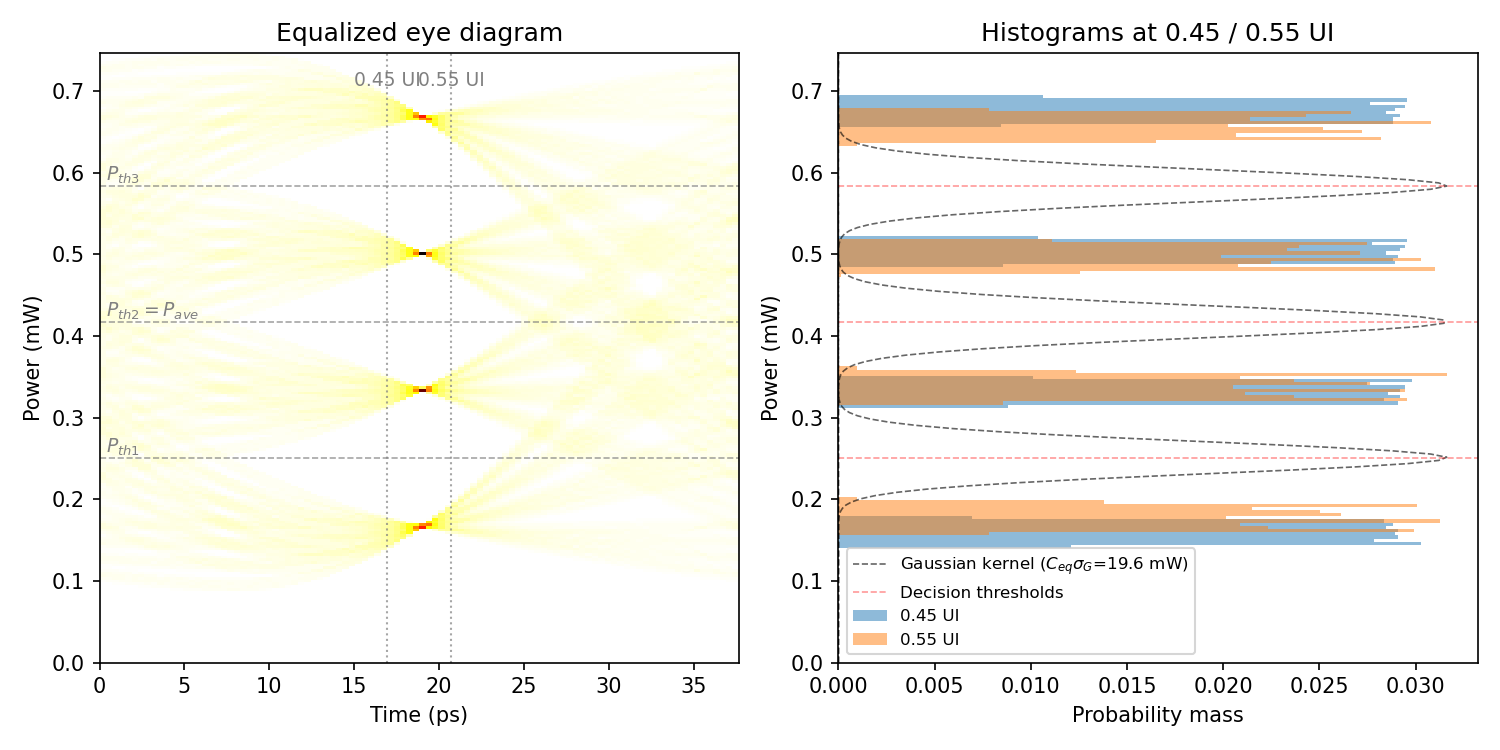
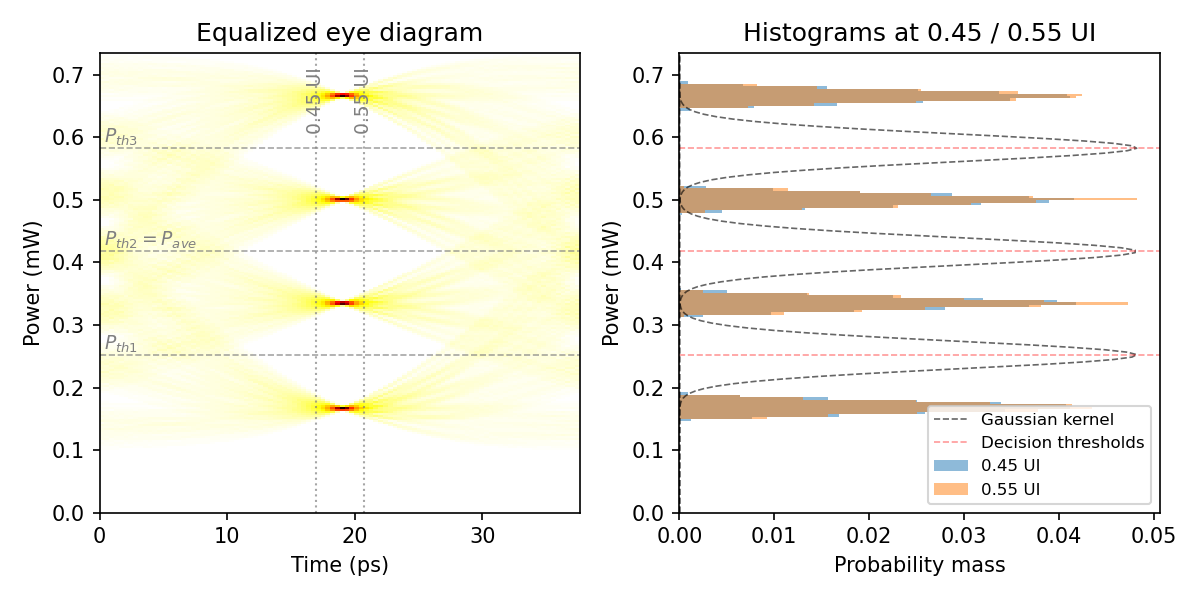
Refactored to separate functions and demo

Changed region(s): [[0.0, 0.03, 0.9867, 0.96]]

diff --git a/demo.py b/demo.py
@@ -1,0 +1,184 @@
+import numpy as np
+import matplotlib.pyplot as plt
+from scipy.signal import bessel
+
+from sim import (
+    prbs_sequence, gray_code_pairs,
+    symbol_to_power, upsample,
+    tx_filter, fiber_loss_db, channel_filter,
+    rx_filter, ffe, ffe_ls, rx_threshold,
+    compute_tdecq, plot_tdecq,
+)
+
+#%% Demo: 50-symbol pipeline
+
+# Generating test patterns for lanes 0-3
+seeds = [0b0000010101011, 0b0011101000001, 0b1001000101100, 0b0100010000010]  # Different seeds for each lane
+test_patterns = []
+for seed in seeds:
+    prbs_bits = prbs_sequence(register_size=13, seed=seed)  # Generate full PRBS-13 sequence (8191 bits)
+    prbs_bits += prbs_bits  # Duplicate the sequence to ensure even length for pairing
+    gray_pairs = gray_code_pairs(prbs_bits)  # Pair and Gray-code the bits
+    test_patterns.append(gray_pairs)
+
+print("Generated PAM4 test patterns for lanes 0-3 (first 20 symbols of each lane):")
+for lane, pattern in enumerate(test_patterns):
+    print(f"Lane {lane}: {pattern[:20]}")
+
+symbol_rate = 26.5625e9 # 26.5625 GBd for 200GBASE-DR4
+ui = 1 / symbol_rate
+samples_per_ui = 100
+transition_time = 34e-12 # max allowed 20%-80% rise time per IEEE 802.3-2022 Table 121-6
+n_symbols = 15
+tx_power_levels = [0.333, 0.667, 1.0, 1.333]
+n_taps = 5
+lane = 0
+# Approximate C_eq * sigma_G from TDECQ (hardcoded near the found value of ~0.018).
+# Used to show the noise-limited waveform in the RX panel before TDECQ is computed.
+noise_sigma = 0.02
+
+tx_pattern = test_patterns[lane][:n_symbols + n_taps + 3]
+power = symbol_to_power(tx_pattern)
+upsampled = upsample(power, samples_per_ui)
+tx = tx_filter(upsampled, samples_per_ui, transition_time, ui)
+loss_db = fiber_loss_db(500)
+disp = 0.8  # ps/nm, max positive dispersion per IEEE 802.3-2022 Table 121-13
+rx = channel_filter(tx, samples_per_ui, ui, loss_db=loss_db, dispersion_ps_per_nm=disp)
+oe = rx_filter(rx, samples_per_ui, symbol_rate)
+ffe_out, tap_w = ffe(oe, samples_per_ui, n_taps)
+
+t = np.arange(n_symbols * samples_per_ui) * (ui / samples_per_ui) * 1e12  # ps
+n_plot = n_symbols * samples_per_ui
+ui_ps = ui * 1e12
+
+rx_power_levels = [p * 10 ** (-loss_db / 10) for p in tx_power_levels]
+
+n_ffe_plot = min(len(ffe_out), n_symbols - n_taps + 1) # Number of FFE output points to plot
+rx_decisions = rx_threshold(ffe_out[:n_ffe_plot], rx_power_levels)
+
+# Align the FFE output with the transmitted symbols by finding the offset that minimizes symbol errors
+tx_syms = np.array(tx_pattern)
+
+cursor = min(range(n_taps + 3),
+             key=lambda d: np.sum(rx_decisions != tx_syms[d:d + n_ffe_plot]))
+
+# Re-run with LS-optimized taps now that cursor is known
+ideal_levels_short = np.array([rx_power_levels[s] for s in tx_pattern[max(0, n_taps // 2 - cursor):]])
+ffe_ls_out, tap_w_ls = ffe_ls(oe, ideal_levels_short, samples_per_ui)
+n_ffe_plot = min(len(ffe_ls_out), n_symbols - n_taps + 1)
+rx_decisions = rx_threshold(ffe_ls_out[:n_ffe_plot], rx_power_levels)
+
+t_ffe = np.array([(i + cursor + 0.5) * ui_ps for i in range(n_ffe_plot)])
+tx_syms_aligned = tx_syms[cursor:cursor + n_ffe_plot]
+errors = np.where(rx_decisions != tx_syms_aligned)[0]
+t_sym_tx = np.arange(n_symbols) * ui_ps
+t_sym_rx = np.arange(n_ffe_plot) * ui_ps + cursor * ui_ps
+
+# Set up a 3-panel plot: TX waveforms, RX waveforms, and TX vs RX symbol decisions
+fig, axes = plt.subplots(3, 1, figsize=(6, 6), sharex=True,
+                         gridspec_kw={'height_ratios': [2, 2, 1]})
+
+for ax in axes:
+    for k in range(n_symbols):
+        if k % 2 == 0:
+            ax.axvspan(k * ui_ps, (k + 1) * ui_ps, color='gray', alpha=0.15, lw=0)
+
+# Panel 1: TX waveforms
+ax1 = axes[0]
+ax1.plot(t, upsampled[:n_plot], lw=0.8, label='Rectangular')
+ax1.plot(t, tx[:n_plot], lw=0.8, label=f'After TX filter')
+for i, p in enumerate(tx_power_levels):
+    ax1.axhline(p, color='red', lw=0.5, ls='--', alpha=0.5,
+                label='TX power levels' if i == 0 else '_nolegend_')
+ax1.set_ylim(bottom=0)
+ax1.set_ylabel('Power (mW)')
+ax1.set_title('TX waveforms')
+ax1.legend(loc='lower right', fontsize=8)
+
+# Panel 2: RX waveforms
+ax2 = axes[1]
+ax2.plot(t, rx[:n_plot], lw=0.8, label=f'After channel')
+ax2.plot(t, oe[:n_plot], lw=0.8, label='After RX filter')
+ax2.scatter(t_ffe, ffe_ls_out[:n_ffe_plot], s=12, zorder=5, label='After FFE')
+rng = np.random.default_rng(42)
+ffe_noisy = ffe_ls_out[:n_ffe_plot] + rng.normal(0, noise_sigma, n_ffe_plot)
+#ax2.scatter(t_ffe, ffe_noisy, s=6, zorder=4, alpha=0.5, label=f'FFE + noise (σ={noise_sigma*1e3:.0f} mW)')
+for i, p in enumerate(rx_power_levels):
+    ax2.axhline(p, color='blue', lw=0.5, ls='--', alpha=0.5,
+                label='RX power levels' if i == 0 else '_nolegend_')
+ax2.set_ylim(bottom=0)
+ax2.set_ylabel('Power (mW)')
+ax2.set_title('RX waveforms')
+ax2.legend(loc='lower right', fontsize=8)
+
+# Panel 3: TX vs RX symbols
+ax3 = axes[2]
+ax3.step(t_sym_tx, tx_syms[:n_symbols], where='post', lw=1.2, label='TX symbols')
+ax3.step(t_sym_rx, rx_decisions, where='post', lw=1.2, ls='--', label='RX decisions')
+if len(errors) > 0:
+    t_err = t_sym_rx[errors] + 0.5 * ui_ps
+    ax3.scatter(t_err, rx_decisions[errors], marker='x', color='red', s=40, zorder=5,
+                label=f'Errors ({len(errors)})')
+ax3.set_yticks([0, 1, 2, 3])
+ax3.set_ylabel('Symbol')
+ax3.set_xlabel('Time (ps)')
+ax3.set_title('TX vs RX symbol decisions')
+ax3.legend(loc='lower right', fontsize=8)
+
+axes[0].set_xlim(0, n_symbols * ui_ps)
+
+plt.tight_layout()
+plt.savefig('waveforms.png', dpi=150)
+plt.show()
+
+#%% Demo: full TDECQ on PRBS13Q
+
+# Run the full pipeline on the complete 8191-symbol pattern for the selected lane
+tx_pattern_full = test_patterns[lane]
+power_full     = symbol_to_power(tx_pattern_full)
+upsampled_full = upsample(power_full, samples_per_ui)
+tx_full  = tx_filter(upsampled_full, samples_per_ui, transition_time, ui)
+rx_full  = channel_filter(tx_full, samples_per_ui, ui, loss_db=loss_db, dispersion_ps_per_nm=disp)
+oe_full  = rx_filter(rx_full, samples_per_ui, symbol_rate)
+
+# BT filter coefficients (needed for Ceq; matches what rx_filter uses internally)
+b_bt, a_bt = bessel(4, 0.5 * symbol_rate, btype='low', analog=False, norm='mag',
+                    fs=symbol_rate * samples_per_ui)
+
+# Find cursor from the full pattern independently of the demo block above.
+ffe_full_ct, _ = ffe(oe_full, samples_per_ui, n_taps)
+n_ffe_full = len(ffe_full_ct)
+rx_decisions_full = rx_threshold(ffe_full_ct, rx_power_levels)
+tx_syms_full = np.array(tx_pattern_full)
+cursor_full = min(range(n_taps + 3),
+                  key=lambda d: np.sum(rx_decisions_full[:len(tx_syms_full) - d] != tx_syms_full[d:d + n_ffe_full]))
+sym_offset = max(0, n_taps // 2 - cursor_full)
+ideal_levels = np.array([rx_power_levels[s] for s in tx_pattern_full[sym_offset:]])
+
+print("\nRunning TDECQ computation on full PRBS13Q pattern...")
+tdecq_result = compute_tdecq(oe_full, ideal_levels, b_bt, a_bt, samples_per_ui, symbol_rate,
+                             tx_pattern=tx_pattern_full, sym_offset=sym_offset)
+
+print(f"TDECQ:     {tdecq_result['tdecq_db']:+.3f} dB")
+print(f"sigma_G:   {tdecq_result['sigma_g']*1e3:.4f} mW")
+print(f"C_eq:      {tdecq_result['c_eq']:.4f}")
+print(f"OMAouter:  {tdecq_result['oma_outer']*1e3:.3f} mW")
+print(f"P_ave:     {tdecq_result['p_ave']*1e3:.3f} mW")
+print(f"SER (predicted, at sigma_G): {tdecq_result['ser']:.2e}")
+print(f"Tap weights: {np.round(tdecq_result['tap_weights'], 4)}")
+
+# Actual SER: decode the equalized waveform symbol by symbol and compare to transmitted pattern.
+# The center column of the eye (phase = spu//2) gives the same samples as ffe_ls at its
+# default sample_offset, so alignment with ideal_levels (and thus tx_pattern_full) is exact.
+p_th1 = tdecq_result['p_ave'] - tdecq_result['oma_outer'] / 3
+p_th2 = tdecq_result['p_ave']
+p_th3 = tdecq_result['p_ave'] + tdecq_result['oma_outer'] / 3
+equalized_sr = tdecq_result['eye'][:, samples_per_ui // 2]
+decoded = np.where(equalized_sr >= p_th3, 3,
+          np.where(equalized_sr >= p_th2, 2,
+          np.where(equalized_sr >= p_th1, 1, 0)))
+ref_symbols = np.array(tx_pattern_full[sym_offset : sym_offset + len(decoded)])
+n_errors = int(np.sum(decoded != ref_symbols))
+print(f"SER (actual, no added noise): {n_errors / len(decoded):.2e}  ({n_errors} errors / {len(decoded)} symbols)")
+
+plot_tdecq(tdecq_result, samples_per_ui, ui)